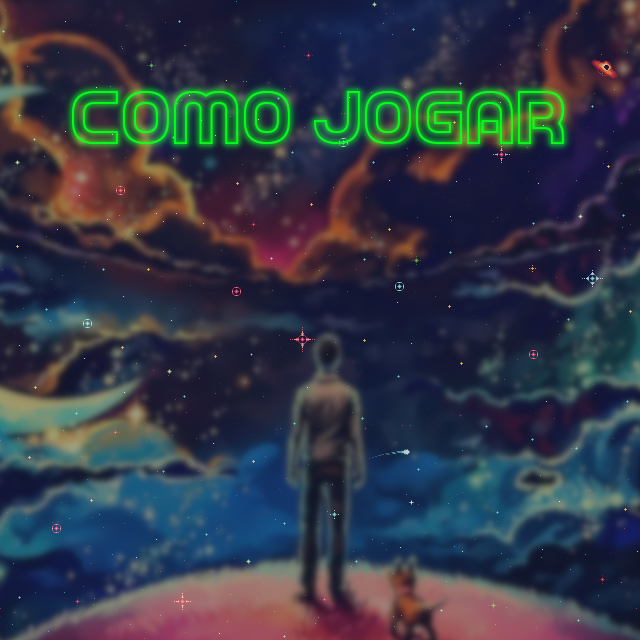
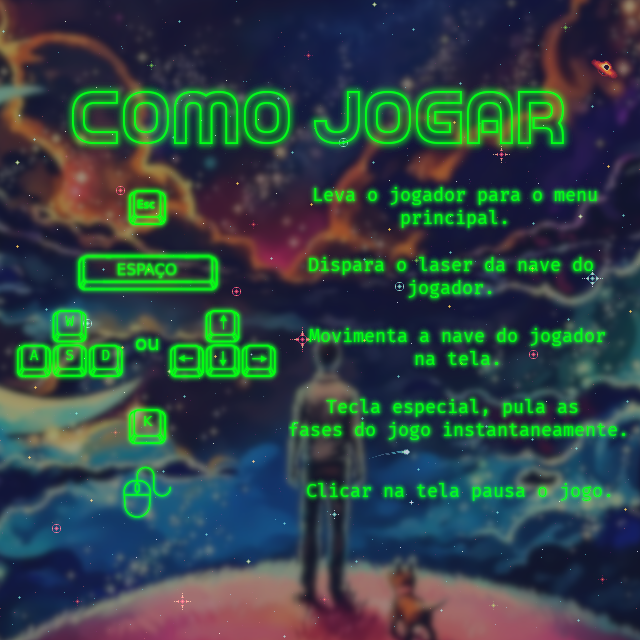
Atualização da tela de ajuda.
Tela de ajuda, agora tem as instruções de como se jogar.

diff --git a/main.py b/main.py
@@ -751,7 +751,7 @@ def main():
 
             if event.type == pg.KEYDOWN:
                 if event.key == pg.K_ESCAPE:
-                    tela_pause(fase)
+                    menu_principal()
                 if event.key == pg.K_k:
                     if fase.fase < 2:
                         fase.pular_fase(naves[0])
